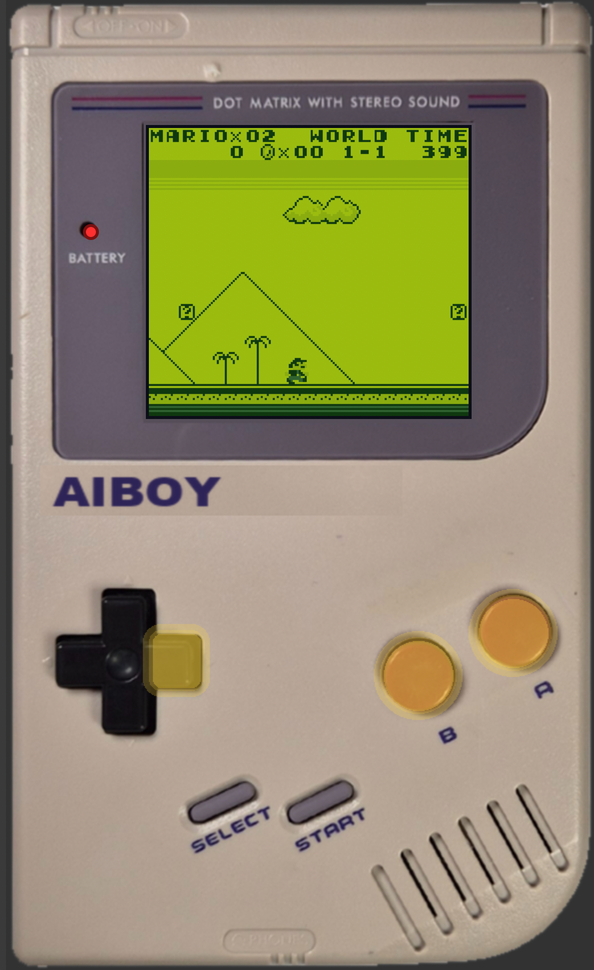
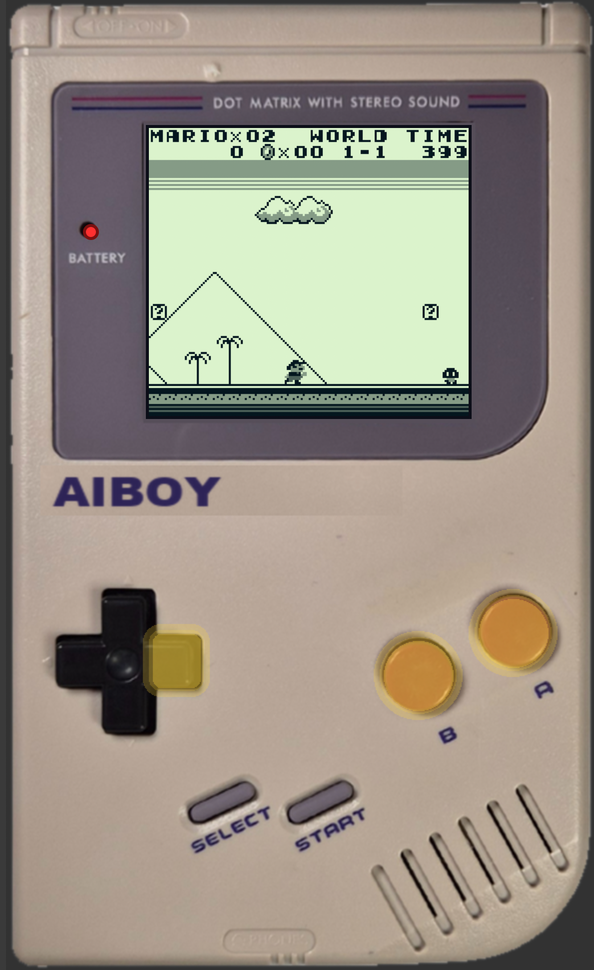
Game Boy screen: show games in the idle screen's pale green
The four shades are sampled from the boot video's idle screen (pale green
paper, near-black ink) with two shades in between, so a running game looks
like the rest of the device instead of pea green. Screenshots regenerated.

Changed region(s): [[0.2424, 0.1237, 0.7879, 0.433]]

diff --git a/aiboy/gui/gameboy.py b/aiboy/gui/gameboy.py
@@ -15,8 +15,8 @@ dark rim: the photo's own shadow around the window is uneven, so that area
 is repainted in the bezel colour) and the controls region, which is
 swapped for a version with a glow over the pressed buttons (composed with
 PIL once per action and cached). Emulator frames arrive in PyBoy's four
-greys and are shown in the original Game Boy's four green shades
-(`dmg_tint`). Hovering a button tells
+greys and are shown in the pale green of the boot video's idle screen,
+dark on light (`dmg_tint`), so the game looks like the rest of the device. Hovering a button tells
 what it does; when a person plays, pressing a button with the mouse holds
 it (`on_buttons`) and a click gives the canvas the keyboard focus.
 
@@ -49,8 +49,10 @@ BEZEL = (86, 78, 89)                           # the glass bezel's colour next t
 LCD_OFF = (12, 14, 24)                         # the drawn rim between bezel and screen
 RIM = 2.5                                      # its width, in photo pixels
 
-# The DMG's four shades, lightest first, for PyBoy's four greys.
-DMG_SHADES = ((155, 188, 15), (139, 172, 15), (48, 98, 48), (15, 56, 15))
+# The screen's four shades, lightest first, for PyBoy's four greys: the
+# boot video's idle screen (pale green paper, near-black ink, sampled from
+# the video) with two shades in between.
+DMG_SHADES = ((219, 243, 204), (133, 155, 134), (76, 96, 88), (4, 22, 30))
 PYBOY_GREYS = (255, 153, 85, 0)
 
 

diff --git a/README.md b/README.md
@@ -127,7 +127,7 @@ away: rest the pointer on a field, a checkbox or a ⓘ.
 <img src="assets/screenshot_play.png" width="300" align="right" alt="The Game Boy playing, with RIGHT, B and A lit">
 
 **Preview.** A photo of a real Game Boy with the emulator's picture on its
-LCD, in the original's four green shades behind an even dark rim. Whatever
+LCD, in the pale green of its idle screen behind an even dark rim. Whatever
 produces something to watch shows here without switching tabs: a finished
 model, the live preview of a training run, the wizard's Watch step, your
 own game. The D-pad, A and B light up with every button
